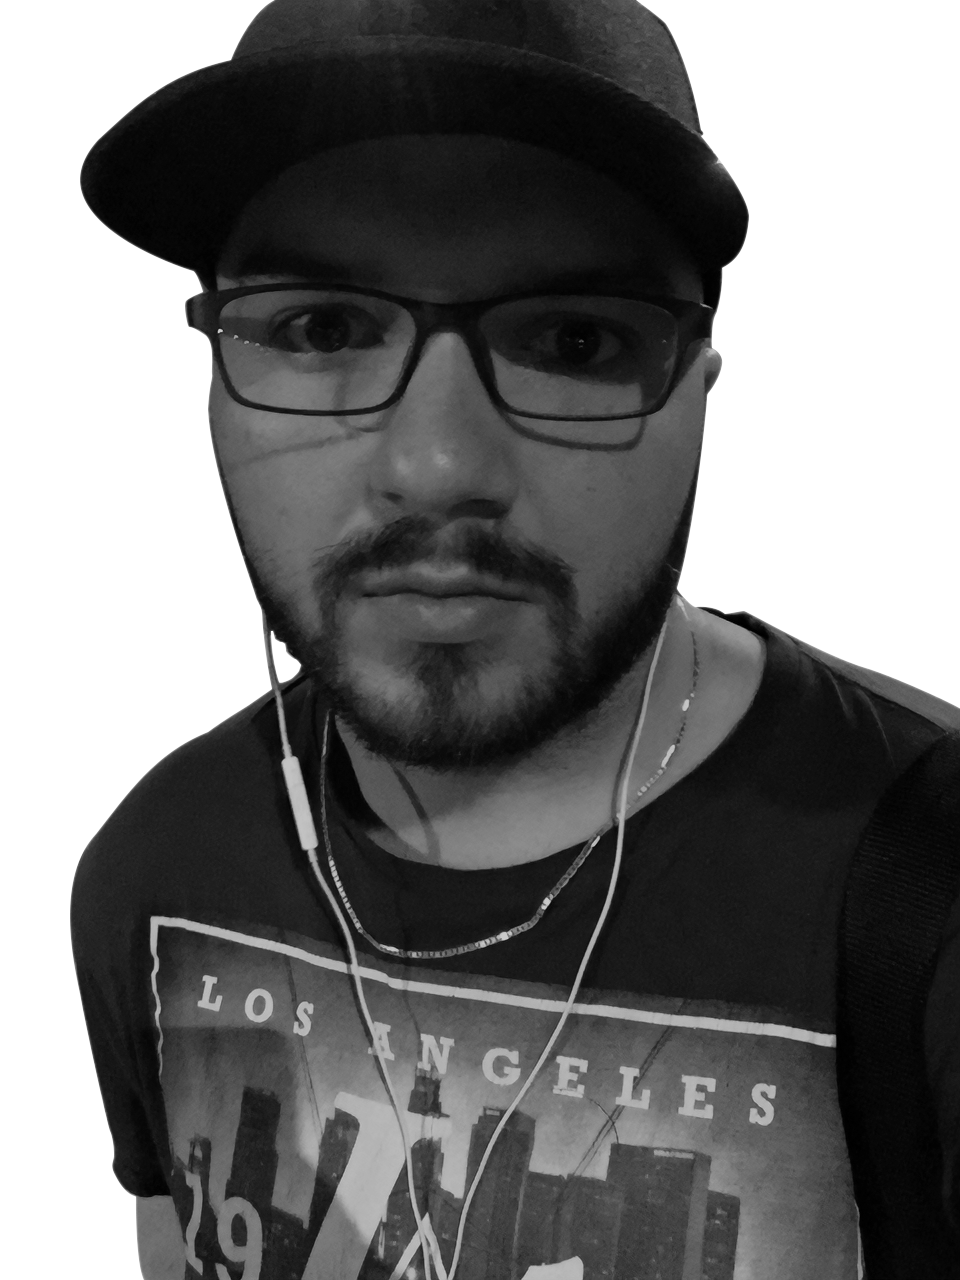
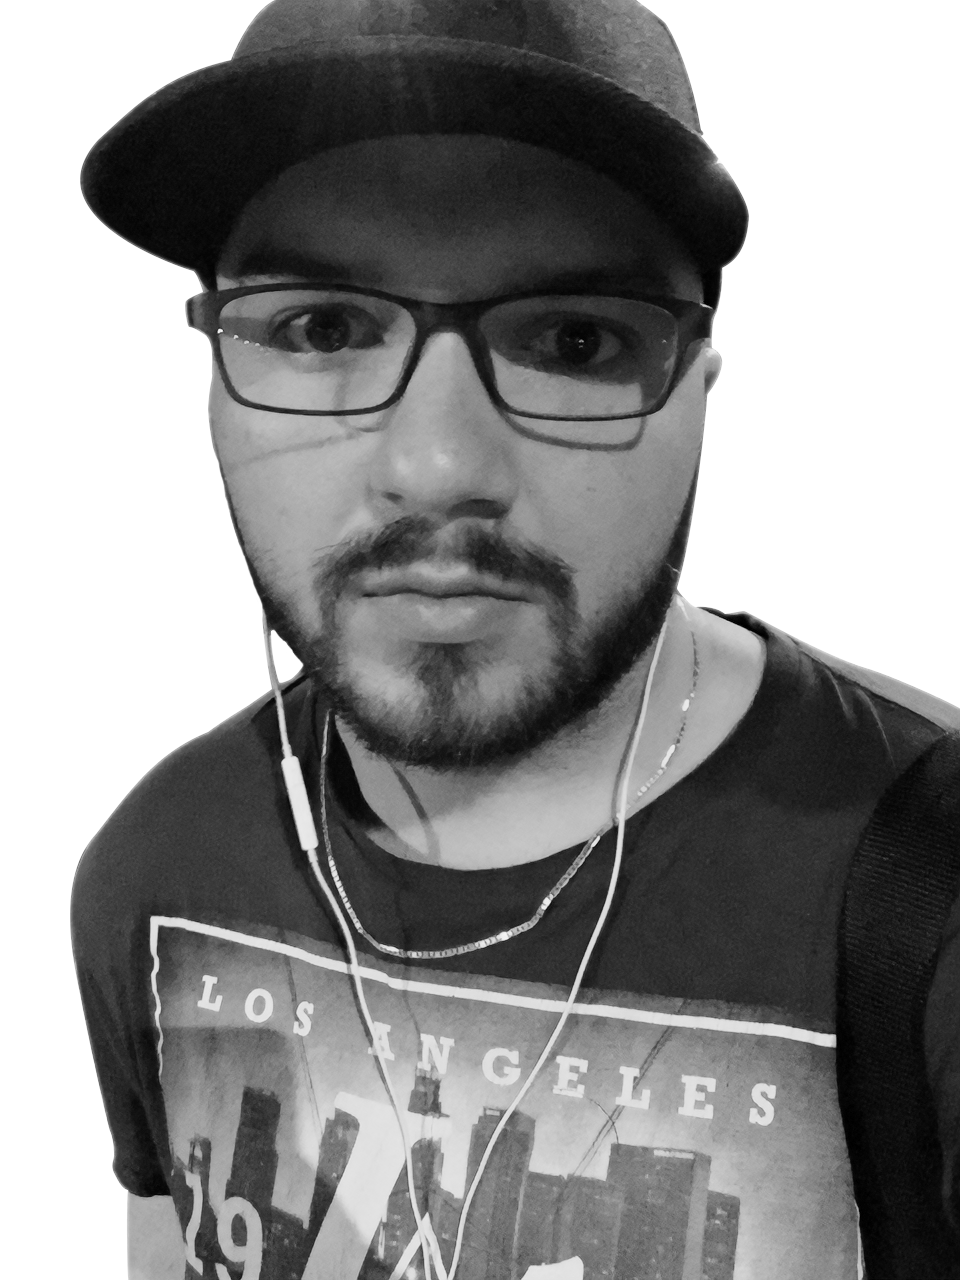
:bug: All current finished pages are compatible with any size screen, which included changing things in different components. Also touched up mugshot again. Maybe last version now. Added github link to contact page and changed the email URL into a more generic link instead. Might switch back dependi

diff --git a/src/components/Contact/index.js b/src/components/Contact/index.js
@@ -1,25 +1,33 @@
 import React from "react";
 import PageLayout from "../../layout/PageLayout";
-import { PageContainer, EmailContainer, Title, Copy, Subtitle } from "./styled";
-import { themeColors } from "../../common/theme";
-const brandColor = themeColors.brand;
+import {
+  PageContainer,
+  EmailContainer,
+  Title,
+  Copy,
+  Subtitle,
+  GitHubLogo,
+} from "./styled";
+import github from "../../assets/github_white.png";
 
 const Contact = () => (
-  <PageLayout style={{height: "100vh"}}>
-    <PageContainer >
+  <PageLayout /*style={{ height: "100vh" }}*/>
+    <PageContainer>
       <Title>Get in Touch Today</Title>
 
       <Copy>
-        I'm excited to hear about your React project and how I can contribute to
-        its success. Whether you're a startup looking to build a new web
-        application or a business seeking to enhance an existing one, I'm here
-        to turn your vision into reality.
-      </Copy>
+        <div>
+          I'm excited to hear about your REACT project and how I can contribute
+          to its success. Whether you're a startup looking to build a new web
+          application or a business seeking to enhance an existing one, I'm here
+          to turn your vision into reality.
+        </div>
 
-      <Copy>
-        Don't hesitate to reach out for inquiries, project proposals, or just to
-        say hello. I'm always eager to discuss exciting new opportunities and
-        challenges in the world of React development.
+        <div>
+          Don't hesitate to reach out for inquiries, project proposals, or just
+          to say hello. I'm always eager to discuss exciting new opportunities
+          and challenges in the world of web development.
+        </div>
       </Copy>
       <Subtitle>Let's build something amazing together!</Subtitle>
       <EmailContainer
@@ -27,7 +35,13 @@ const Contact = () => (
           (window.location.href = "mailto:leondoes.contact@gmail.com")
         }
       >
-        leon<div style={{ color: brandColor }}>does.</div>contact@gmail.com
+        📧Email
+      </EmailContainer>
+      <EmailContainer
+        onClick={() => (window.location.href = "https://github.com/leondoes")}
+      >
+        <GitHubLogo src={github} alt="GitHub Logo" />
+        GitHub
       </EmailContainer>
     </PageContainer>
   </PageLayout>

diff --git a/src/components/Contact/styled.js b/src/components/Contact/styled.js
@@ -10,14 +10,14 @@ flex-direction:column;
 export const Title = styled.div`
 font-weight: 900;
 font-size: 70px;
-padding-bottom: 2vh;
-padding-top: 10vh;
+padding-bottom: 30vh;
+padding-top: 20vh;
 `;
 
 export const Subtitle = styled.div `
 font-weight: 700;
 font-size: 50px;
-padding-bottom: 2vh;
+padding-bottom: 10vh;
 `
 
 export const Copy = styled.div`
@@ -26,16 +26,22 @@ display: flex;
 flex-direction: column;
 font-size: 24px;
 gap: 20px;
-padding-bottom: 2vh;
+padding-bottom: 20vh;
 `;
 
 export const EmailContainer = styled.div `
 font-family: ${themeFonts.brandFont};
-display: inline-flex;
+margin: auto;
+display: flex;
 font-weight: 900;
-font-size: 50px;
+font-size: 5vh;
 cursor: pointer;
 `;
 
+export const GitHubLogo = styled.img `
+width: 5vh;
+height: 5vh;
+padding-right: 10px;
+`
 
 

diff --git a/src/layout/pageLayout/styled.js b/src/layout/pageLayout/styled.js
@@ -1,5 +1,5 @@
 import styled from "styled-components";
-import {themeColors, themeFonts} from "../../common/theme"
+import {themeColors, themeFonts, mediaQuery} from "../../common/theme"
 
 export const PageContainer = styled.div`
   font-family: ${themeFonts.bodyFont};
@@ -43,6 +43,10 @@ export const PageContainer = styled.div`
 export const ContentContainer = styled.div`
 display: flex;
 margin: 30px 100px 30px 100px;
+
+${mediaQuery.down.tablet} {
+    margin: 0px;
+  }
 
 
 `;

diff --git a/src/components/navbar/styled.js b/src/components/navbar/styled.js
@@ -1,6 +1,6 @@
 import styled from "styled-components";
 import { Link } from "react-router-dom";
-import {themeColors, themeFonts} from "../../common/theme"
+import {themeColors, themeFonts, mediaQuery} from "../../common/theme"
 
 export const NavBarStyled = styled.div`
   position: sticky;
@@ -28,5 +28,9 @@ color: ${themeColors.font};
   &:link,
   &:active {
     text-decoration: none;
+  }
+
+  ${mediaQuery.down.tablet} {
+    margin-left: 10%;
   }
 `;
